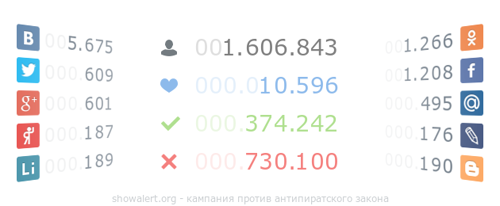
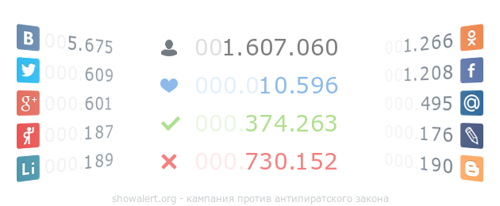
some updates

Changed region(s): [[0.54, 0.1748, 0.69, 0.2913], [0.6, 0.7282, 0.69, 0.8447], [0.6, 0.5534, 0.69, 0.6408]]

diff --git a/votes.js b/votes.js
@@ -1,1 +1,1 @@
-window.lk.votes(23919)
+window.lk.votes(23927)
